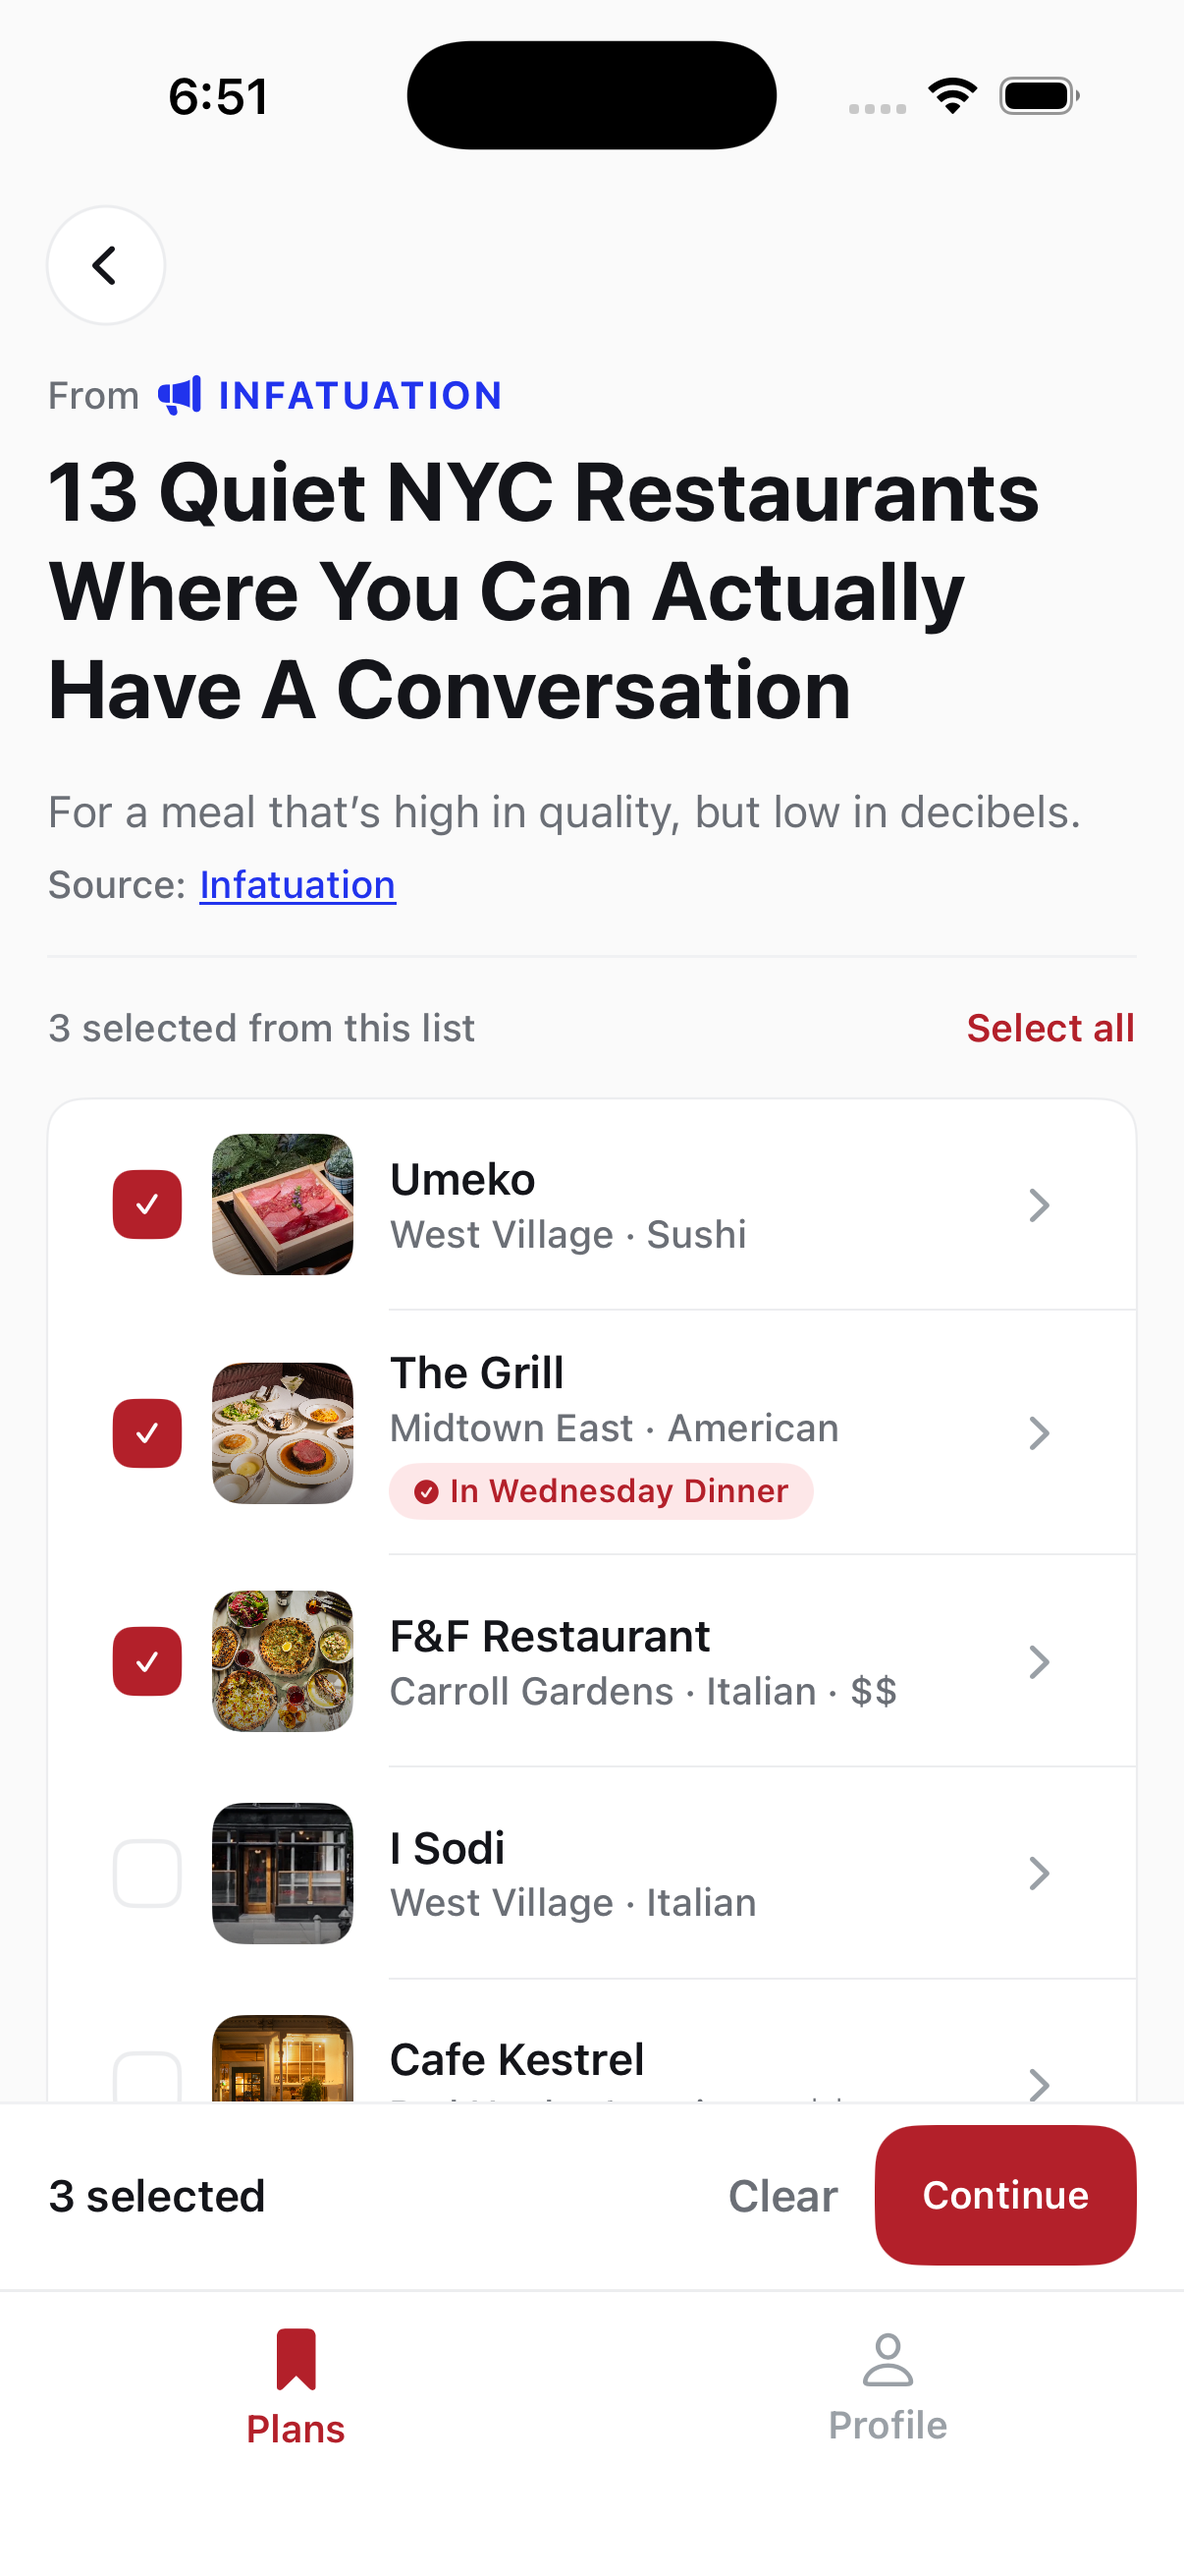
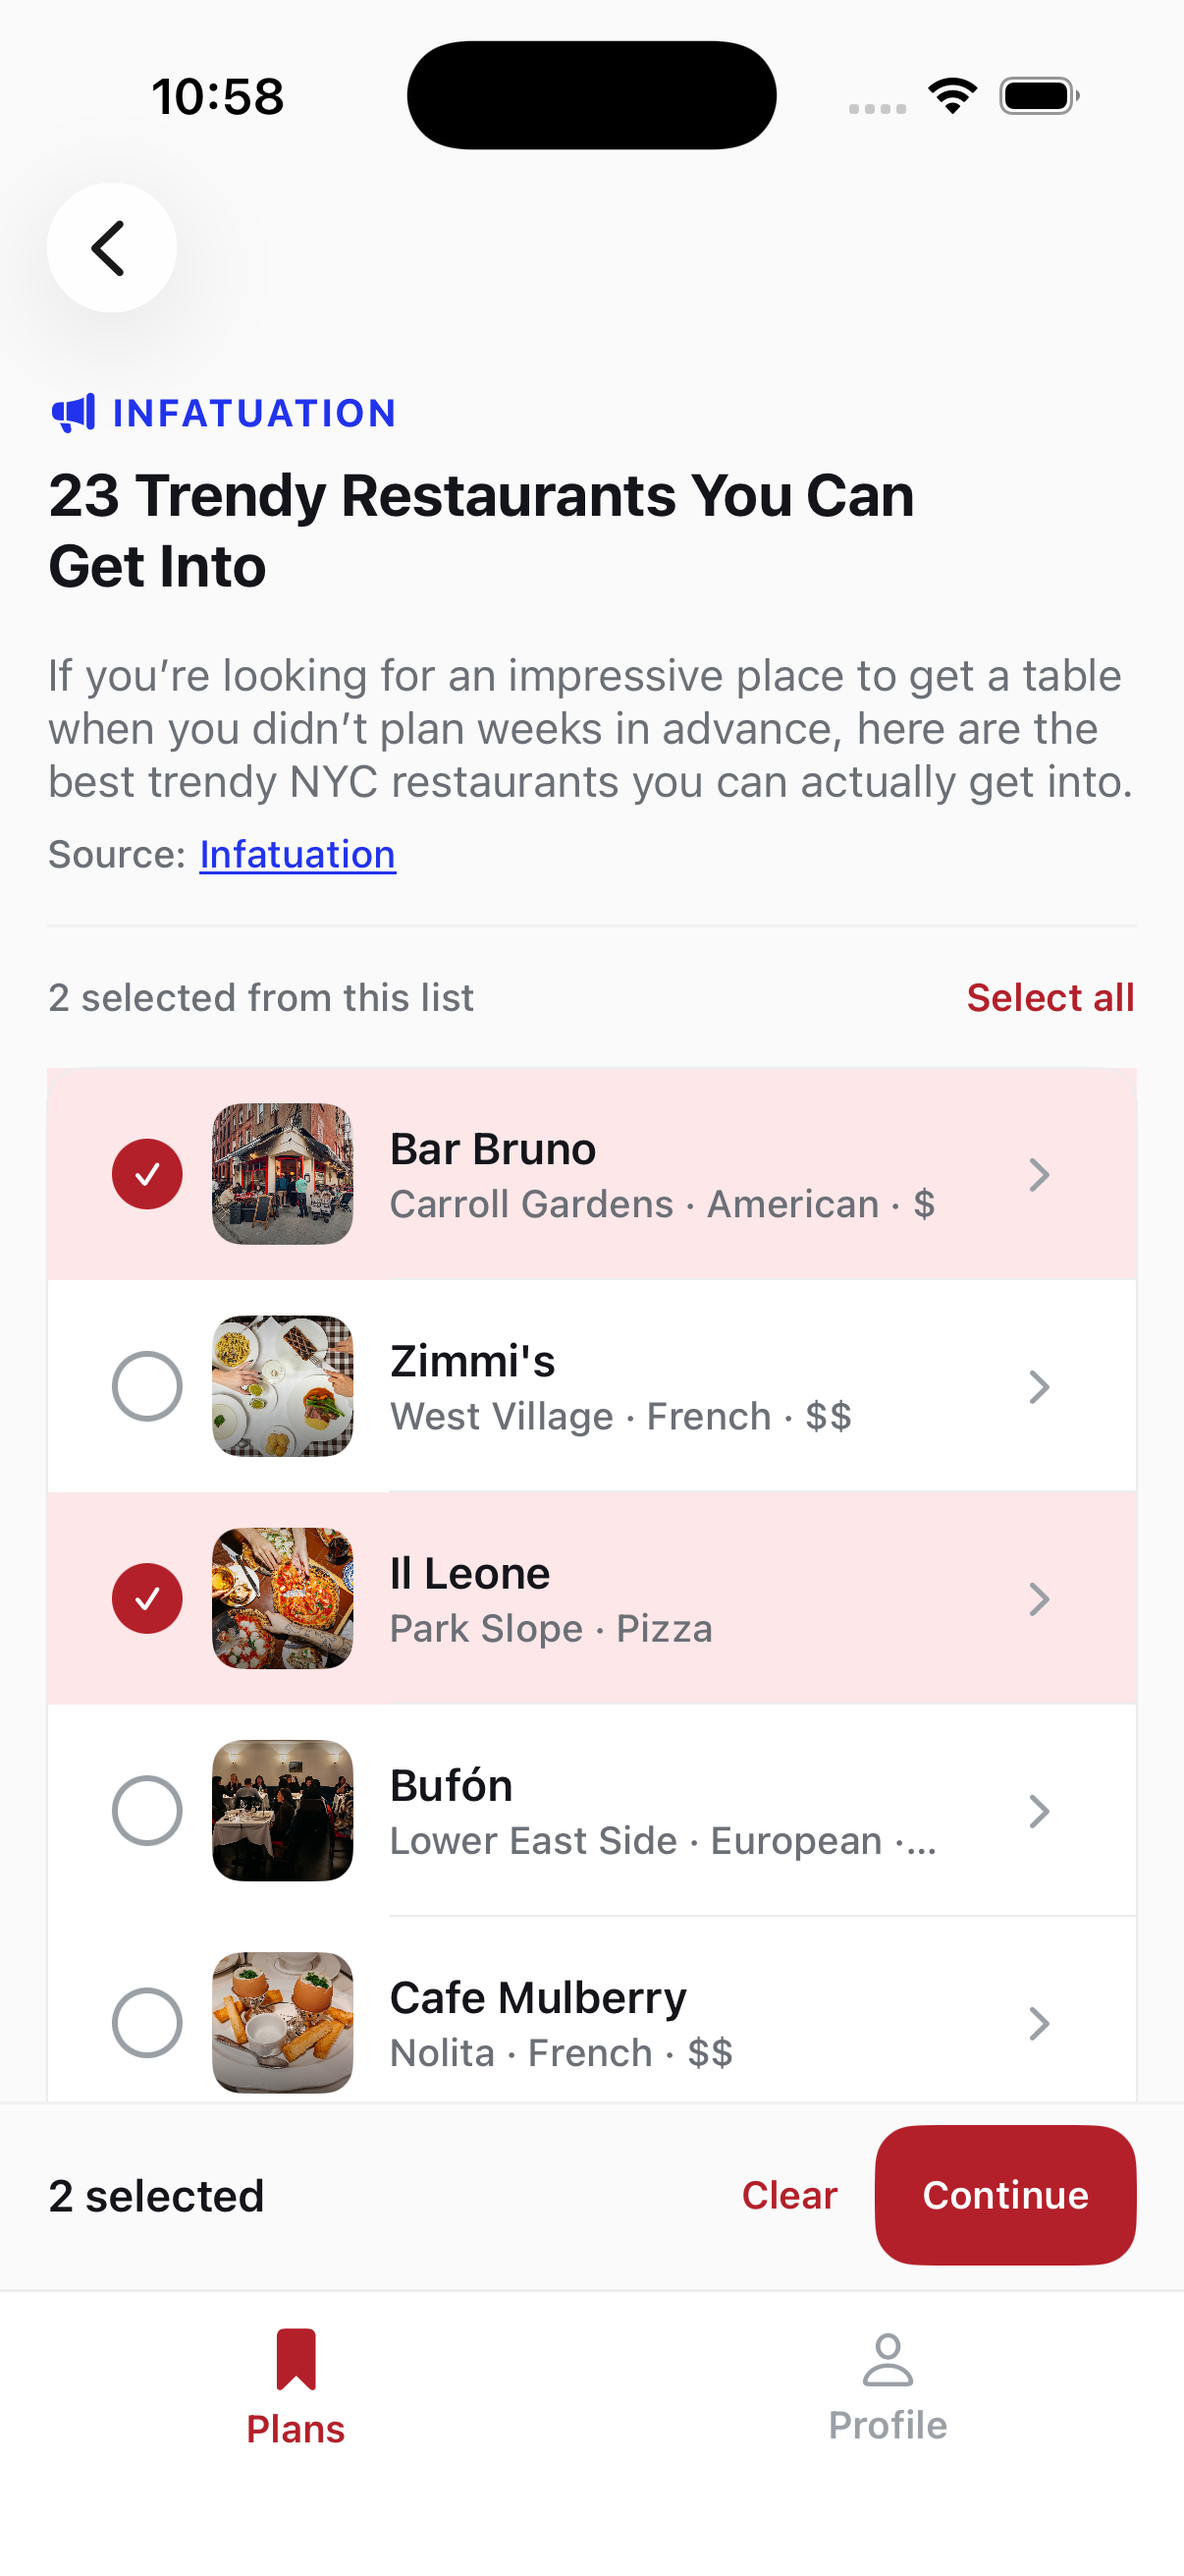
Five real screens on the board, plan view as the star exhibit
Home, since-your-last-visit, collection selection, the MUST TRY plan
(seven dates, 2 to 4 people, every live table as one answer), and the
date-strip day picker. Camera stops remapped: the bulk-reservation
section now shows the actual plan view it describes; research shows
since-your-last-visit; availability shows the day picker. Personas
stack on the right; journey map holds the left column.

diff --git a/src/components/perspective/SnagrBoard.tsx b/src/components/perspective/SnagrBoard.tsx
@@ -11,28 +11,38 @@ const BASE = process.env.NEXT_PUBLIC_BASE_PATH ?? "";
 // camera to its frame. Pinch (or Cmd/Ctrl + scroll) still zooms manually.
 type Region = { x: number; y: number; w: number; h: number };
 
-const CANVAS = { w: 1120, h: 1080 };
+const CANVAS = { w: 1300, h: 1310 };
 
 const REGIONS: Record<string, Region> = {
-  overview: { x: 10, y: 20, w: 1100, h: 1040 },
+  overview: { x: 10, y: 10, w: 1280, h: 1290 },
   brand: { x: 20, y: 20, w: 340, h: 190 },
-  journeymap: { x: 20, y: 230, w: 520, h: 380 },
-  personas: { x: 410, y: 670, w: 700, h: 380 },
-  home: { x: 420, y: 40, w: 290, h: 610 },
-  collection: { x: 730, y: 40, w: 290, h: 610 },
+  journeymap: { x: 20, y: 220, w: 520, h: 390 },
+  personas: { x: 980, y: 640, w: 370, h: 670 },
+  main: { x: 390, y: 20, w: 270, h: 620 },
+  missed: { x: 690, y: 20, w: 270, h: 620 },
+  collection: { x: 990, y: 20, w: 270, h: 620 },
+  plan: { x: 390, y: 640, w: 270, h: 640 },
+  planday: { x: 690, y: 640, w: 270, h: 640 },
 };
 
 // Which region each case-study section focuses.
 const SECTION_TO_REGION: Record<string, string> = {
+  intro: "overview",
   "who-what-when-where-why-how": "brand",
   personas: "personas",
   "the-journey-before-snagr": "journeymap",
   "the-journey-with-snagr": "collection",
-  "why-this-solution-and-what-i-rejected": "overview",
-  "breaking-the-one-reservation-model": "home",
+  "why-this-solution-and-what-i-rejected": "main",
+  "breaking-the-one-reservation-model": "plan",
   "how-it-evolved-four-products-four-lessons": "overview",
-  "research-honestly": "overview",
+  "research-honestly": "missed",
   "what-i-learned": "overview",
+  "stack-and-what-each-piece-bought": "brand",
+  backend: "overview",
+  "availability-acquisition-the-hard-part": "planday",
+  "demand-is-the-scheduler": "plan",
+  "notifications-engineered-as-suppression": "missed",
+  infrastructure: "overview",
 };
 
 function FrameLabel({ children }: { children: React.ReactNode }) {
@@ -381,19 +391,40 @@ export default function SnagrBoard() {
 
         
 
-        {/* Real screens */}
-        <div className="absolute" style={{ left: 430, top: 60 }}>
+        {/* Real screens, straight from the simulator */}
+        <div className="absolute" style={{ left: 400, top: 60 }}>
           <Screen
-            file="home.png"
+            file="main.png"
             title="Home · Plans"
-            caption="Two plans quietly watching: 15 and 26 tables live."
+            caption="Three plans quietly watching; 61 of 100 restaurants tracked."
           />
         </div>
-        <div className="absolute" style={{ left: 740, top: 60 }}>
+        <div className="absolute" style={{ left: 700, top: 60 }}>
+          <Screen
+            file="missed.png"
+            title="Home · Since your last visit"
+            caption="What opened while you were away, before anything else."
+          />
+        </div>
+        <div className="absolute" style={{ left: 1000, top: 60 }}>
           <Screen
             file="collection.png"
             title="Collection · Declare"
-            caption="Selection is creation: tick venues, three taps to a live plan."
+            caption="Selection is creation: tick venues straight from the guide."
+          />
+        </div>
+        <div className="absolute" style={{ left: 400, top: 680 }}>
+          <Screen
+            file="plan.png"
+            title="Plan · MUST TRY"
+            caption="One plan, seven dates, 2 to 4 people: every live table as one answer."
+          />
+        </div>
+        <div className="absolute" style={{ left: 700, top: 680 }}>
+          <Screen
+            file="plan-day.png"
+            title="Plan · picking a day"
+            caption="The date strip carries the counts: 12 open Thursday, none yet Sunday."
           />
         </div>
 
@@ -403,7 +434,7 @@ export default function SnagrBoard() {
         </div>
 
         {/* Personas, straight off the whiteboard */}
-        <div className="absolute" style={{ left: 430, top: 700 }}>
+        <div className="absolute" style={{ left: 1000, top: 680 }}>
           <PersonaSketch
             variant="maya"
             name="Maya, 29"
@@ -417,7 +448,7 @@ export default function SnagrBoard() {
             rotate="rotate-[-1.5deg]"
           />
         </div>
-        <div className="absolute" style={{ left: 775, top: 710 }}>
+        <div className="absolute" style={{ left: 1000, top: 1010 }}>
           <PersonaSketch
             variant="dan"
             name="Dan, 31"
